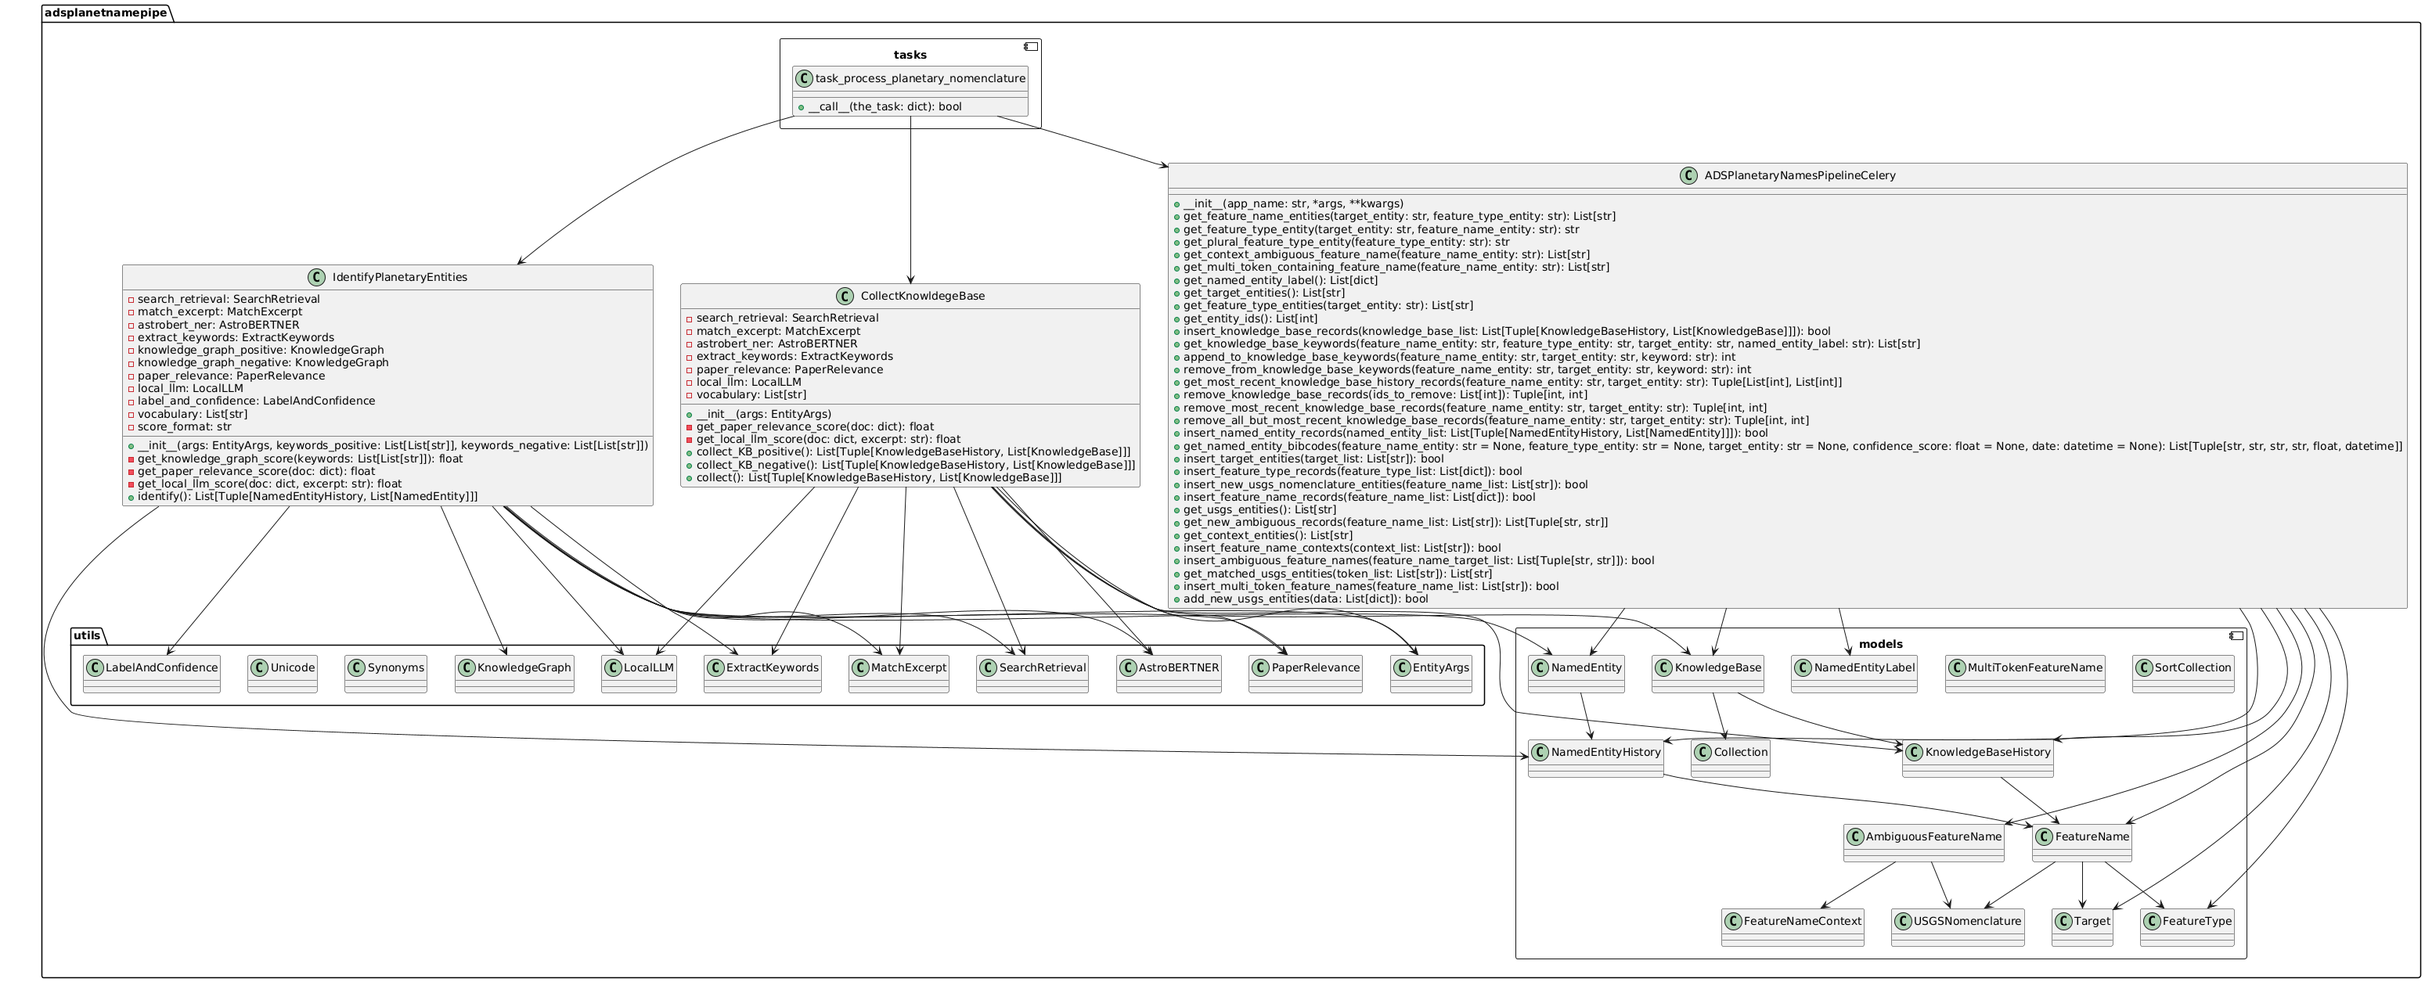
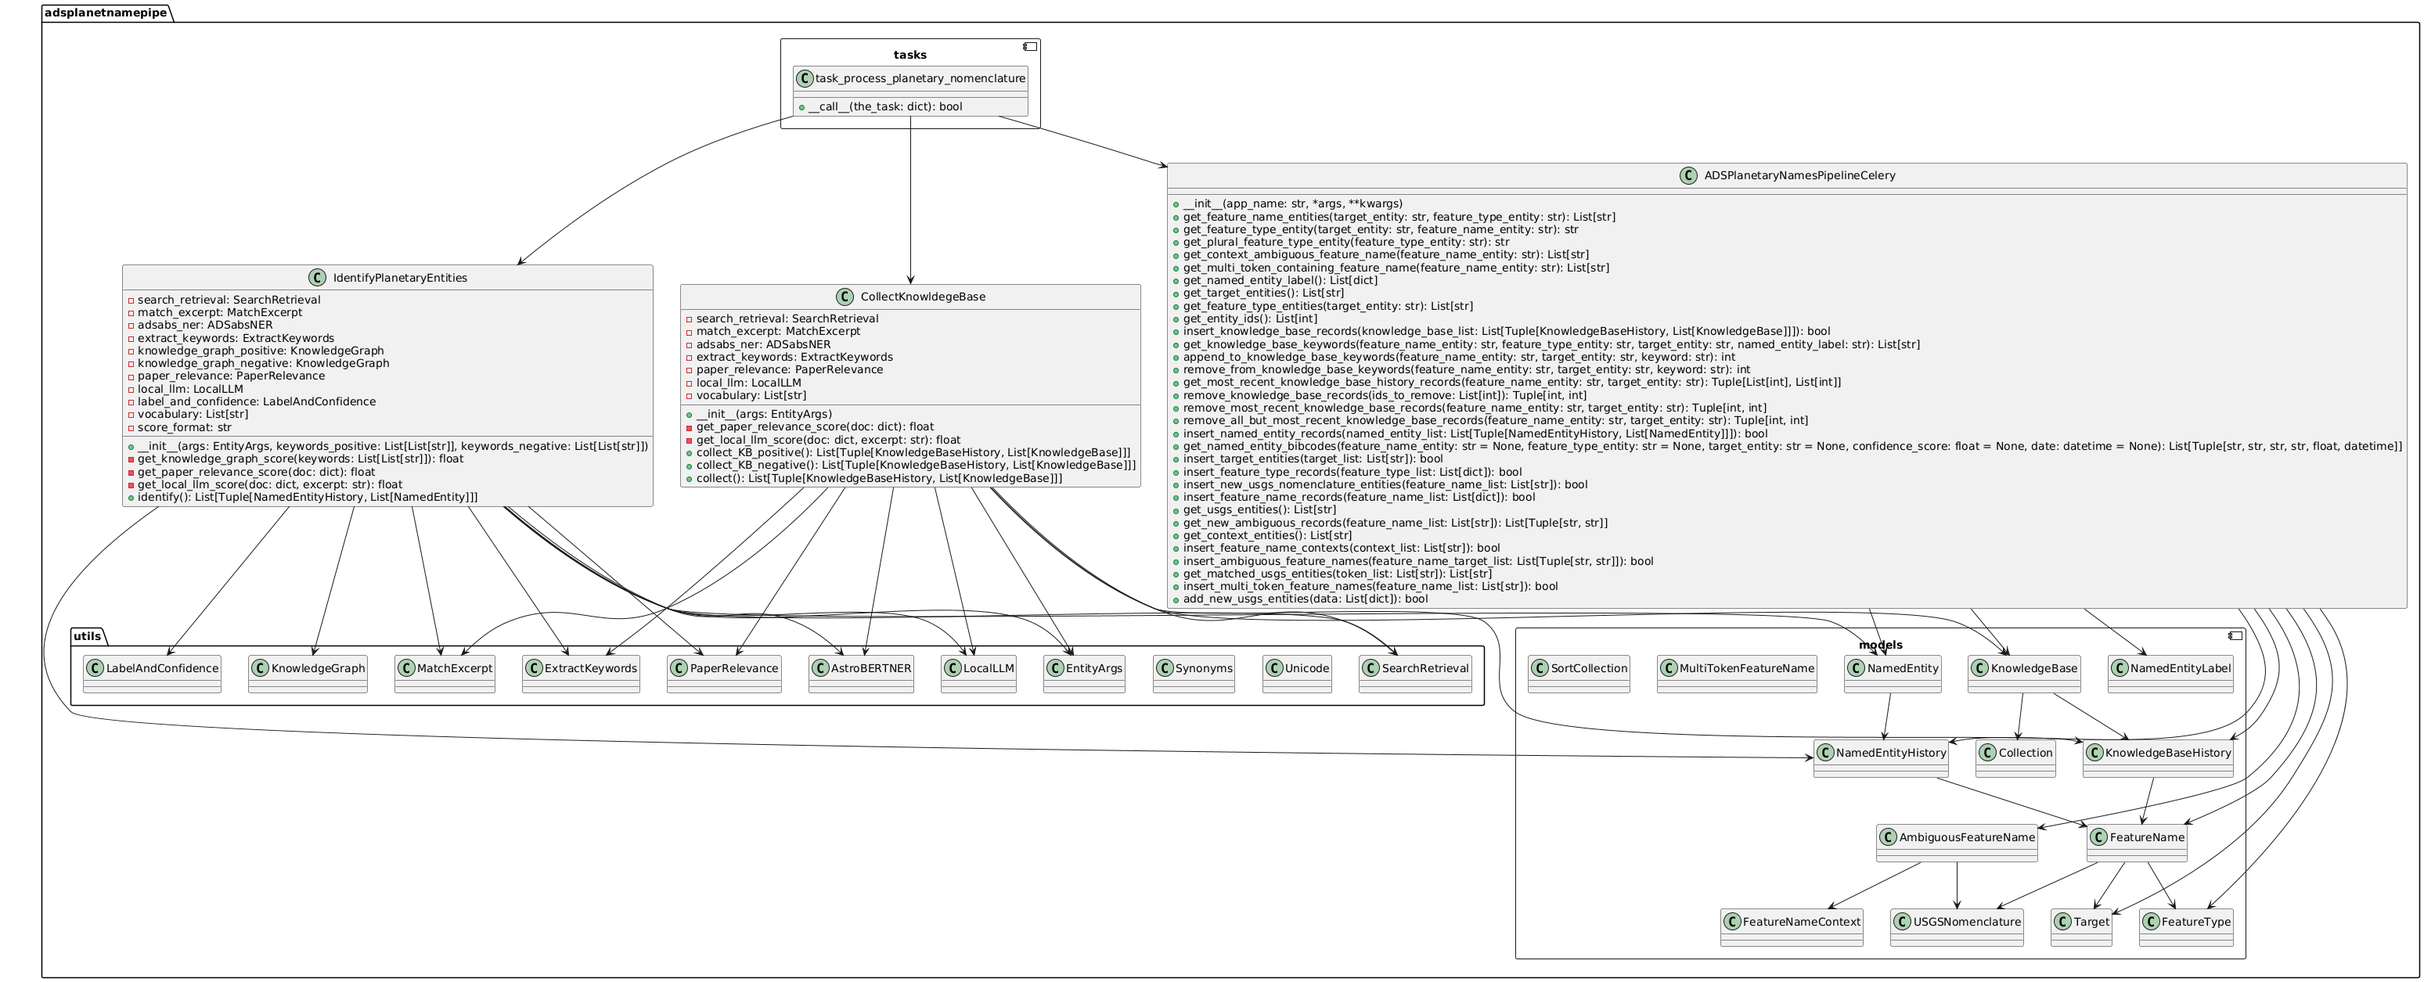
renamed astrobert_ner to adsabs_ner to be able to switch ADS's models

diff --git a/adsplanetnamepipe/tests/unittests/test_adsabs_ner.py b/adsplanetnamepipe/tests/unittests/test_adsabs_ner.py
@@ -8,7 +8,7 @@ import unittest
 
 from unittest.mock import MagicMock, patch
 
-from adsplanetnamepipe.utils.astrobert_ner import AstroBERTNER
+from adsplanetnamepipe.utils.adsabs_ner import ADSabsNER
 from adsplanetnamepipe.utils.common import EntityArgs
 
 from adsplanetnamepipe.tests.unittests.stubdata import excerpts
@@ -21,7 +21,7 @@ class TestAstroBERTNER(unittest.TestCase):
     """
 
     def setUp(self):
-        """ Set up the config class and create an instance of AstroBERTNER """
+        """ Set up the config class and create an instance of ADSabsNER """
 
         self.args = EntityArgs(
             target="Mars",
@@ -34,57 +34,57 @@ class TestAstroBERTNER(unittest.TestCase):
             timestamp='2000-01-01',
             all_targets = ["Mars", "Mercury", "Moon", "Venus"]
         )
-        self.astrobert_ner = AstroBERTNER(self.args)
+        self.adsabs_ner = ADSabsNER(self.args)
 
     def test_forward(self):
         """  """
 
         # when entity is recognized as CelestialObject
-        self.astrobert_ner.astrobert_ner = MagicMock(return_value=[
+        self.adsabs_ner.adsabs_ner = MagicMock(return_value=[
             {'entity_group': 'CelestialObject', 'score': 0.42149615, 'word': 'Rayleigh', 'start': 350, 'end': 358},
             {'entity_group': 'CelestialObject', 'score': 0.39897928, 'word': 'Drake', 'start': 449, 'end': 454},
             {'entity_group': 'Mission', 'score': 0.41518763, 'word': 'Opportunity', 'start': 501, 'end': 512}
         ])
-        self.astrobert_ner.is_citation_or_reference = MagicMock(return_value=False)
-        result = self.astrobert_ner.forward(excerpts.doc_1_excerpts[3]['excerpt'],
+        self.adsabs_ner.is_citation_or_reference = MagicMock(return_value=False)
+        result = self.adsabs_ner.forward(excerpts.doc_1_excerpts[3]['excerpt'],
                                             excerpts.doc_1_excerpts[3]['entity_span_within_excerpt'])
         self.assertTrue(result)
 
         # when entity is not recognized
-        self.astrobert_ner.astrobert_ner = MagicMock(return_value=[
+        self.adsabs_ner.adsabs_ner = MagicMock(return_value=[
             {'entity_group': 'CelestialObject', 'score': 0.39897928, 'word': 'Drake', 'start': 449, 'end': 454},
             {'entity_group': 'Mission', 'score': 0.41518763, 'word': 'Opportunity', 'start': 501, 'end': 512}
         ])
-        result = self.astrobert_ner.forward(excerpts.doc_1_excerpts[3]['excerpt'],
+        result = self.adsabs_ner.forward(excerpts.doc_1_excerpts[3]['excerpt'],
                                             excerpts.doc_1_excerpts[3]['entity_span_within_excerpt'])
         self.assertTrue(result)
 
         # when entity is recognized as other then CelestialObject
-        self.astrobert_ner.astrobert_ner = MagicMock(return_value=[
+        self.adsabs_ner.adsabs_ner = MagicMock(return_value=[
             {'entity_group': 'Model', 'score': 0.42149615, 'word': 'Rayleigh', 'start': 350, 'end': 358},
             {'entity_group': 'CelestialObject', 'score': 0.39897928, 'word': 'Drake', 'start': 449, 'end': 454},
             {'entity_group': 'Mission', 'score': 0.41518763, 'word': 'Opportunity', 'start': 501, 'end': 512}
         ])
-        result = self.astrobert_ner.forward(excerpts.doc_1_excerpts[3]['excerpt'],
+        result = self.adsabs_ner.forward(excerpts.doc_1_excerpts[3]['excerpt'],
                                             excerpts.doc_1_excerpts[3]['entity_span_within_excerpt'])
         self.assertFalse(result)
 
         # when entity is citation or reference
-        self.astrobert_ner.astrobert_ner = MagicMock(return_value=[
+        self.adsabs_ner.adsabs_ner = MagicMock(return_value=[
             {'entity_group': 'CelestialObject', 'score': 0.39897928, 'word': 'Drake', 'start': 449, 'end': 454},
             {'entity_group': 'Mission', 'score': 0.41518763, 'word': 'Opportunity', 'start': 501, 'end': 512}
         ])
-        self.astrobert_ner.is_citation_or_reference = MagicMock(return_value=True)
-        result = self.astrobert_ner.forward(excerpts.doc_1_excerpts[3]['excerpt'],
+        self.adsabs_ner.is_citation_or_reference = MagicMock(return_value=True)
+        result = self.adsabs_ner.forward(excerpts.doc_1_excerpts[3]['excerpt'],
                                             excerpts.doc_1_excerpts[3]['entity_span_within_excerpt'])
         self.assertFalse(result)
 
-    @patch('adsplanetnamepipe.utils.astrobert_ner.logger')
+    @patch('adsplanetnamepipe.utils.adsabs_ner.logger')
     def test_forward_exception(self, mock_logger):
-        """ test astrobert_ner method when raises a RuntimeError """
+        """ test adsabs_ner method when raises a RuntimeError """
 
-        self.astrobert_ner.astrobert_ner = MagicMock(side_effect=RuntimeError)
-        result = self.astrobert_ner.forward(excerpts.doc_1_excerpts[3]['excerpt'],
+        self.adsabs_ner.adsabs_ner = MagicMock(side_effect=RuntimeError)
+        result = self.adsabs_ner.forward(excerpts.doc_1_excerpts[3]['excerpt'],
                                             excerpts.doc_1_excerpts[3]['entity_span_within_excerpt'])
         self.assertFalse(result)
         mock_logger.error.assert_called_once_with('AstroBERT NER throw RuntimeError.')
@@ -93,7 +93,7 @@ class TestAstroBERTNER(unittest.TestCase):
         """ test is_citation_or_reference method """
 
         # not citation or reference
-        result = self.astrobert_ner.is_citation_or_reference(excerpts.doc_1_excerpts[8]['excerpt'], excerpts.doc_1_excerpts[8]['entity_span_within_excerpt'])
+        result = self.adsabs_ner.is_citation_or_reference(excerpts.doc_1_excerpts[8]['excerpt'], excerpts.doc_1_excerpts[8]['entity_span_within_excerpt'])
         self.assertFalse(result)
 
         # citation strings
@@ -114,7 +114,7 @@ class TestAstroBERTNER(unittest.TestCase):
         entity_spans = [(82, 88), (34, 41), (32, 38), (16, 21), (13, 20), (13, 19),
                         (63, 69), (26, 32), (33, 37), (49, 54), (0, 6)]
         for excerpt, entity_span in zip(citation_excerpts, entity_spans):
-            result = self.astrobert_ner.is_citation_or_reference(excerpt, entity_span)
+            result = self.adsabs_ner.is_citation_or_reference(excerpt, entity_span)
             self.assertTrue(result)
 
         # reference strings
@@ -122,7 +122,7 @@ class TestAstroBERTNER(unittest.TestCase):
                               "Walker, S. 'In Search of the New.' Sky and Telescope, vol. 147, no. 6, 2024, p. 62."
         ]
         entity_spans = [(35, 41), (0, 6)]
-        self.astrobert_ner.args = EntityArgs(
+        self.adsabs_ner.args = EntityArgs(
             target="Moon",
             feature_type="Crater",
             feature_type_plural="Craters",
@@ -134,7 +134,7 @@ class TestAstroBERTNER(unittest.TestCase):
             all_targets = []
         )
         for excerpt, entity_span in zip(reference_excerpts, entity_spans):
-            result = self.astrobert_ner.is_citation_or_reference(excerpt, entity_span)
+            result = self.adsabs_ner.is_citation_or_reference(excerpt, entity_span)
             self.assertTrue(result)
 
 

diff --git a/adsplanetnamepipe/tests/unittests/test_match_excerpt.py b/adsplanetnamepipe/tests/unittests/test_match_excerpt.py
@@ -158,7 +158,7 @@ class TestMatchExcerpt(unittest.TestCase):
                                                           True)
         self.assertFalse(result)
 
-    @patch('adsplanetnamepipe.utils.match_excerpt.AstroBERTNER')
+    @patch('adsplanetnamepipe.utils.match_excerpt.ADSabsNER')
     @patch('adsplanetnamepipe.utils.match_excerpt.logger')
     def test_forward_1(self, mock_logger, mock_astrobert_ner):
         """ Test the forward method -- case 1: usgs_term=True, relevant document """
@@ -174,7 +174,7 @@ class TestMatchExcerpt(unittest.TestCase):
         self.assertEqual(result[1], [excerpts.doc_1_excerpts[0]['excerpt'], excerpts.doc_1_excerpts[1]['excerpt']])
         mock_logger.info.assert_called_with("For record `2010JGRE..115.0F08G` there are 2 relevant excerpts extracted in the step Match Excerpts.")
 
-    @patch('adsplanetnamepipe.utils.match_excerpt.AstroBERTNER')
+    @patch('adsplanetnamepipe.utils.match_excerpt.ADSabsNER')
     @patch('adsplanetnamepipe.utils.match_excerpt.logger')
     def test_forward_2(self, mock_logger, mock_astrobert_ner):
         """ Test the forward method -- case 2: usgs_term=True, irrelevant document """
@@ -187,7 +187,7 @@ class TestMatchExcerpt(unittest.TestCase):
         self.assertEqual(result[1], [])
         mock_logger.info.assert_called_with("Record `2023Icar..39615503S` is determined not to be relevant for target Mars. Record filtered out.")
 
-    @patch('adsplanetnamepipe.utils.match_excerpt.AstroBERTNER')
+    @patch('adsplanetnamepipe.utils.match_excerpt.ADSabsNER')
     @patch('adsplanetnamepipe.utils.match_excerpt.logger')
     def test_forward_3(self, mock_logger, mock_astrobert_ner):
         """ Test the forward method -- case 3: usgs_term=False, non-planetary context """
@@ -198,7 +198,7 @@ class TestMatchExcerpt(unittest.TestCase):
         self.assertEqual(result[1], [])
         mock_logger.info.assert_called_with("For record `2023GeoRL..5001666K` determined it is not planetary record and hence keywords will be extacted from the fulltext in the next step.")
 
-    @patch('adsplanetnamepipe.utils.match_excerpt.AstroBERTNER')
+    @patch('adsplanetnamepipe.utils.match_excerpt.ADSabsNER')
     @patch('adsplanetnamepipe.utils.match_excerpt.logger')
     def test_forward_4(self, mock_logger, mock_astrobert_ner):
         """ Test the forward method -- case 4: usgs_term=False, planetary context """
@@ -209,10 +209,10 @@ class TestMatchExcerpt(unittest.TestCase):
         self.assertEqual(result[1], [])
         mock_logger.info.assert_called_with("Record `2010JGRE..115.0F08G` is determined to be usgs relevant, and hence cannot be processed for non usgs phase.")
 
-    @patch('adsplanetnamepipe.utils.match_excerpt.AstroBERTNER')
+    @patch('adsplanetnamepipe.utils.match_excerpt.ADSabsNER')
     @patch('adsplanetnamepipe.utils.match_excerpt.logger')
     def test_forward_5(self, mock_logger, mock_astrobert_ner):
-        """ Test the forward method -- case 5: when excerpt is determined by astrobert_ner not to be relevant """
+        """ Test the forward method -- case 5: when excerpt is determined by adsabs_ner not to be relevant """
 
         self.match_excerpt.get_fulltext = MagicMock(return_value=f"{' '.join(solrdata.doc_1['title'])} {solrdata.doc_1['abstract']} {solrdata.doc_1['body']}")
         self.match_excerpt.determine_celestial_body_relevance = MagicMock(return_value=True)
@@ -225,7 +225,7 @@ class TestMatchExcerpt(unittest.TestCase):
         mock_logger.info.assert_any_call("An excerpt from the record `2010JGRE..115.0F08G` is determined not relevant by AstroBERT NER. Record filtered out.")
         mock_logger.info.assert_any_call("For record `2010JGRE..115.0F08G` there are 0 relevant excerpts extracted in the step Match Excerpts.")
 
-    @patch('adsplanetnamepipe.utils.match_excerpt.AstroBERTNER')
+    @patch('adsplanetnamepipe.utils.match_excerpt.ADSabsNER')
     @patch('adsplanetnamepipe.utils.match_excerpt.logger')
     def test_forward_6(self, mock_logger, mock_astrobert_ner):
         """ Test the forward method -- case 6: when excerpt is determined by token_phrase analysis not to be relevant """
@@ -241,7 +241,7 @@ class TestMatchExcerpt(unittest.TestCase):
         mock_logger.info.assert_any_call("An excerpt from the record `2010JGRE..115.0F08G` is determined not relevant by token/pharse analysis. Record filtered out.")
         mock_logger.info.assert_any_call("For record `2010JGRE..115.0F08G` there are 0 relevant excerpts extracted in the step Match Excerpts.")
 
-    @patch('adsplanetnamepipe.utils.match_excerpt.AstroBERTNER')
+    @patch('adsplanetnamepipe.utils.match_excerpt.ADSabsNER')
     @patch('adsplanetnamepipe.utils.match_excerpt.logger')
     def test_forward_7(self, mock_logger, mock_astrobert_ner):
         """ Test the forward method -- case 7: when the record is determined not to be English """

diff --git a/adsplanetnamepipe/utils/match_excerpt.py b/adsplanetnamepipe/utils/match_excerpt.py
@@ -9,7 +9,7 @@ config.update(load_config())
 
 from adsplanetnamepipe.utils.common import EntityArgs, Synonyms, Unicode
 from adsplanetnamepipe.utils.extract_keywords import SpacyWrapper, YakeWrapper
-from adsplanetnamepipe.utils.astrobert_ner import AstroBERTNER
+from adsplanetnamepipe.utils.adsabs_ner import ADSabsNER
 
 from langdetect import detect
 
@@ -86,12 +86,12 @@ class MatchExcerpt(object):
         self.wnd = 64
         self.feature_types_and_target = '|'.join([item.capitalize() for item in ("%s, %s"%(self.args.feature_type, self.args.target)).split(', ')])
 
-    def forward(self, doc: Dict, astrobert_ner: AstroBERTNER = None, usgs_term: bool = True) -> Tuple[bool, List[str]]:
+    def forward(self, doc: Dict, adsabs_ner: ADSabsNER = None, usgs_term: bool = True) -> Tuple[bool, List[str]]:
         """
         process a document to extract relevant excerpts
 
         :param doc: input document as a dictionary
-        :param astrobert_ner: AstroBERTNER object for named entity recognition
+        :param adsabs_ner: ADSabsNER object for named entity recognition
         :param usgs_term: boolean indicating if processing USGS terms
         :return: tuple of boolean (indicating success) and list of relevant excerpts
         """
@@ -118,7 +118,7 @@ class MatchExcerpt(object):
             # for each excerpt if it is valid, in each step, keep it, otherwise filter it out
             for excerpt in excerpts:
                 if self.validate_feature_name(excerpt.excerpt, excerpt.entity_span_within_excerpt, usgs_term):
-                    if astrobert_ner.forward(excerpt.excerpt, excerpt.entity_span_within_excerpt):
+                    if adsabs_ner.forward(excerpt.excerpt, excerpt.entity_span_within_excerpt):
                         relevant_excerpts.append(excerpt.excerpt)
                     else:
                         logger.info(f"An excerpt from the record `{doc['bibcode']}` is determined not relevant by AstroBERT NER. Record filtered out.")

diff --git a/adsplanetnamepipe/utils/adsabs_ner.py b/adsplanetnamepipe/utils/adsabs_ner.py
@@ -24,10 +24,10 @@ model_path = 'adsabs/astroBERT'
 # model_path = os.path.dirname(__file__) + '/astrobert_ner_files'
 model = AutoModelForTokenClassification.from_pretrained(pretrained_model_name_or_path=model_path, revision='NER-DEAL')
 tokenizer = AutoTokenizer.from_pretrained(pretrained_model_name_or_path=model_path, add_special_tokens=True, do_lower_case=False, model_max_length=130)
-astrobert_ner = TokenClassificationPipeline(model=model, tokenizer=tokenizer, task='astroBERT NER_DEAL', aggregation_strategy='average', ignore_labels=['O'])
+adsabs_ner = TokenClassificationPipeline(model=model, tokenizer=tokenizer, task='astroBERT NER_DEAL', aggregation_strategy='average', ignore_labels=['O'])
 
 
-class AstroBERTNER():
+class ADSabsNER():
 
     """
     a class that implements named entity recognition using the AstroBERT model
@@ -38,7 +38,7 @@ class AstroBERTNER():
     """
 
     # class-level reference to the global AstroBERT named entity recognition object
-    astrobert_ner = astrobert_ner
+    adsabs_ner = adsabs_ner
 
     # regular expression pattern to match author names in various formats
     author_pattern = r"((?:[A-Z][A-Za-z'`-]+)?(?:,?\s+(?:(?:van|von|de|der)\s+)?[A-Z][A-Za-z'`-]+)*(?:,?\s+(?:Jr\.|Sr\.|I{1,3}V?|IV|V|VI{1,3}))?\s*)"
@@ -54,7 +54,7 @@ class AstroBERTNER():
 
     def __init__(self, args: EntityArgs):
         """
-        initialize the AstroBERTNER class
+        initialize the ADSabsNER class
 
         :param args: configuration arguments for entity recognition
         """
@@ -79,7 +79,7 @@ class AstroBERTNER():
         :return: boolean indicating whether the feature name is a valid celestial object or region
         """
         try:
-            results = self.astrobert_ner(text)
+            results = self.adsabs_ner(text)
         except RuntimeError:
             logger.error('AstroBERT NER throw RuntimeError.')
             return False

diff --git a/adsplanetnamepipe/identify.py b/adsplanetnamepipe/identify.py
@@ -10,7 +10,7 @@ from adsplanetnamepipe.utils.common import EntityArgs, Synonyms
 from adsplanetnamepipe.utils.search_retrieval import SearchRetrieval
 from adsplanetnamepipe.utils.match_excerpt import MatchExcerpt
 from adsplanetnamepipe.utils.extract_keywords import ExtractKeywords
-from adsplanetnamepipe.utils.astrobert_ner import AstroBERTNER
+from adsplanetnamepipe.utils.adsabs_ner import ADSabsNER
 from adsplanetnamepipe.utils.local_llm import LocalLLM
 from adsplanetnamepipe.utils.paper_relevance import PaperRelevance
 from adsplanetnamepipe.utils.knowledge_graph import KnowledgeGraph
@@ -40,7 +40,7 @@ class IdentifyPlanetaryEntities():
         # step 2 of the pipeline
         self.match_excerpt = MatchExcerpt(args)
         # step 3 of the pipeline
-        self.astrobert_ner = AstroBERTNER(args)
+        self.adsabs_ner = ADSabsNER(args)
         # step 4 of the pipeline
         self.extract_keywords = ExtractKeywords(args)
         # step 5a of the pipeline
@@ -120,7 +120,7 @@ class IdentifyPlanetaryEntities():
                 local_llm_scores_doc = []
                 knowledge_graph_scores_doc = []
 
-                _, excerpts = self.match_excerpt.forward(doc, self.astrobert_ner)
+                _, excerpts = self.match_excerpt.forward(doc, self.adsabs_ner)
                 if excerpts:
                     paper_relevance_score = self.get_paper_relevance_score(doc)
 

diff --git a/adsplanetnamepipe/collect.py b/adsplanetnamepipe/collect.py
@@ -5,7 +5,7 @@ from adsplanetnamepipe.utils.common import EntityArgs, Synonyms
 from adsplanetnamepipe.utils.search_retrieval import SearchRetrieval
 from adsplanetnamepipe.utils.match_excerpt import MatchExcerpt
 from adsplanetnamepipe.utils.extract_keywords import ExtractKeywords
-from adsplanetnamepipe.utils.astrobert_ner import AstroBERTNER
+from adsplanetnamepipe.utils.adsabs_ner import ADSabsNER
 from adsplanetnamepipe.utils.local_llm import LocalLLM
 from adsplanetnamepipe.utils.paper_relevance import PaperRelevance
 
@@ -32,7 +32,7 @@ class CollectKnowldegeBase():
         # step 2 of the pipeline
         self.match_excerpt = MatchExcerpt(args)
         # step 3 of the pipeline
-        self.astrobert_ner = AstroBERTNER(args)
+        self.adsabs_ner = ADSabsNER(args)
         # step 4 of the pipeline
         self.extract_keywords = ExtractKeywords(args)
         # step 5b of the pipeline, only scoring the positive records
@@ -93,7 +93,7 @@ class CollectKnowldegeBase():
                 collected_doc: List[KnowledgeBase] = []
                 local_llm_scores_doc = []
 
-                _, excerpts = self.match_excerpt.forward(doc, self.astrobert_ner)
+                _, excerpts = self.match_excerpt.forward(doc, self.adsabs_ner)
                 if excerpts:
                     paper_relevance_score = self.get_paper_relevance_score(doc)
 

diff --git a/adsplanetnamepipe/tests/unittests/test_tasks.py b/adsplanetnamepipe/tests/unittests/test_tasks.py
@@ -14,7 +14,7 @@ from adsplanetnamepipe.utils.common import PLANETARYNAMES_PIPELINE_ACTION, Entit
 class TestPlanetaryNomenclature(unittest.TestCase):
 
     def setUp(self):
-        """ Set up the config class and create an instance of AstroBERTNER """
+        """ Set up the config class and create an instance of ADSabsNER """
 
         self.args = EntityArgs(
             target="Mars",
